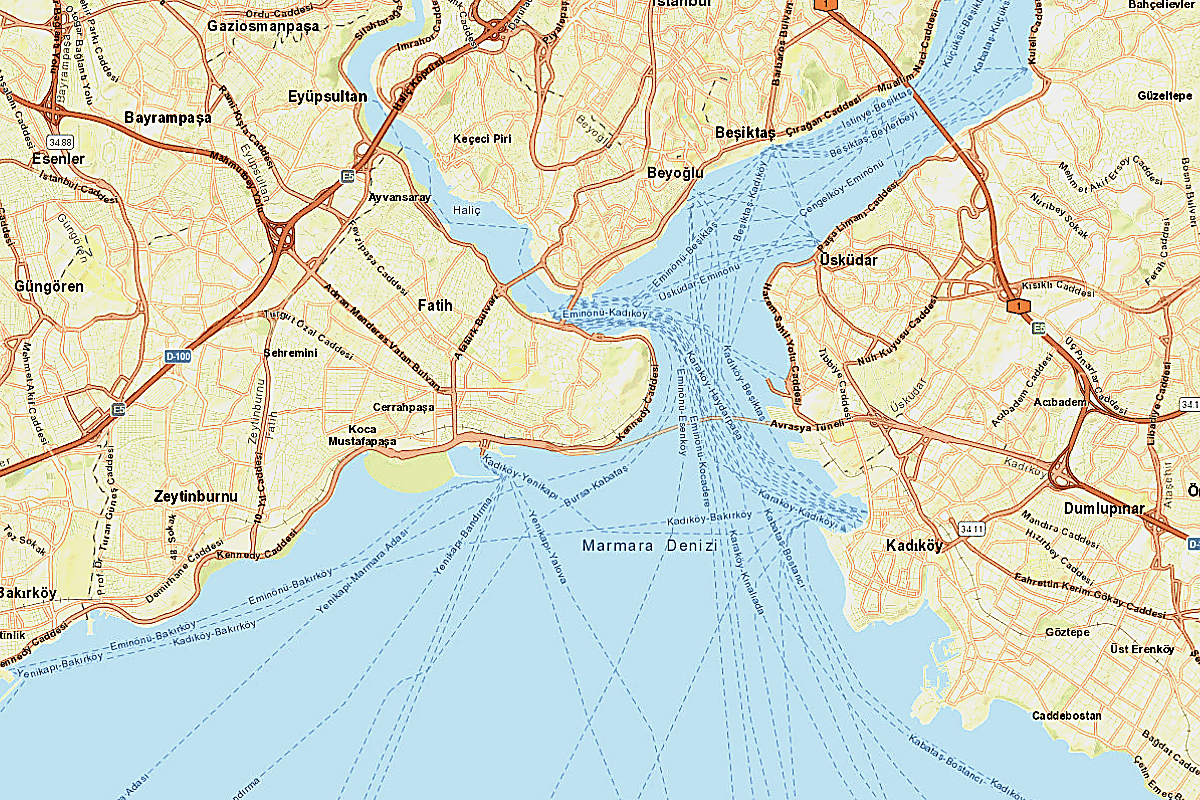
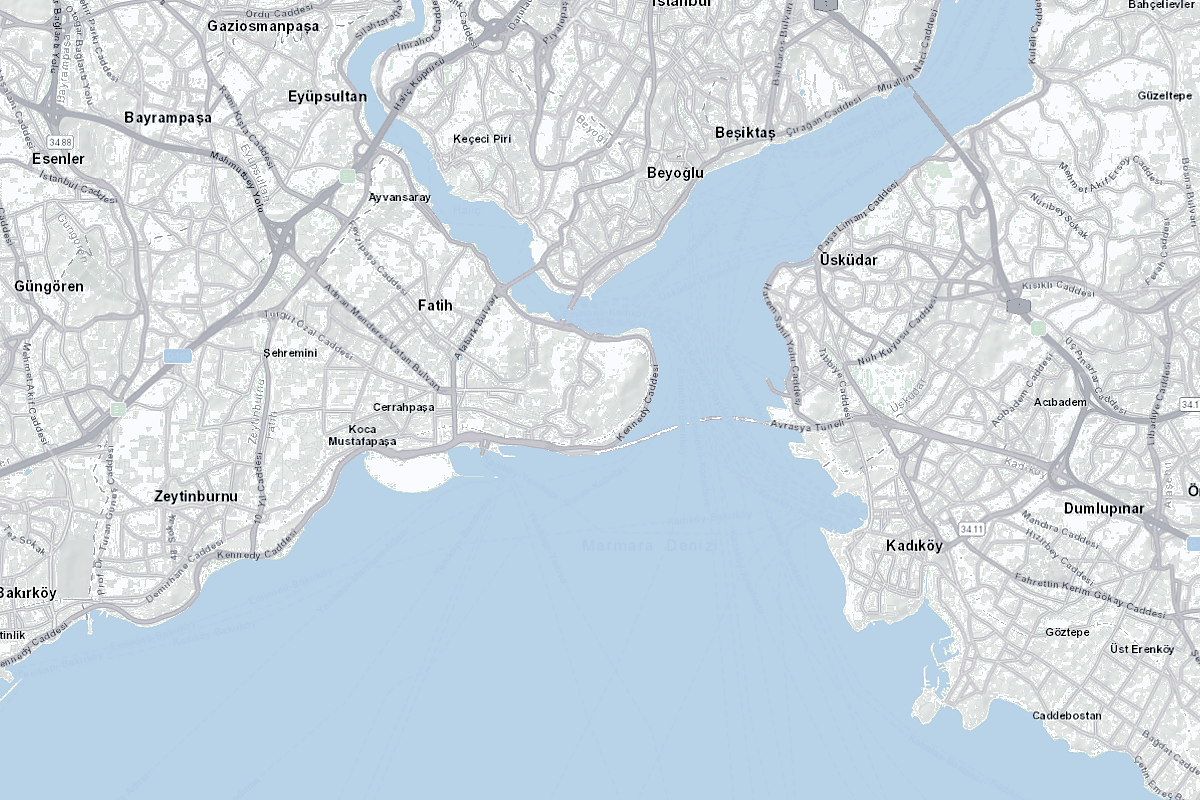
fix(guias): cooler flat basemaps for 30s city maps
Replace terracotta street-atlas PNGs with cool modern-light flat
streets (same geo frames/pins), and dial CSS saturate so roads stay
digital gray instead of warm caricature.

diff --git a/src/app/globals.css b/src/app/globals.css
@@ -256,7 +256,8 @@ html {
  * Modern light (Opção 2) — production default for all city-guide 30s maps.
  * Optical zoom enlarges baked street / neighborhood labels. No Place IDs.
  * Pins keep 2GO navy/orange brand chrome (not map CSS).
- * Contrast is intentional: Filipe rejected washed Light Gray / pale street tiles.
+ * Basemap PNGs are cool flat digital streets (not terracotta street-atlas).
+ * CSS keeps mild cool contrast — avoid saturate boost that rewarms roads.
  */
 .guide-city-map {
   --guide-map-zoom: 1.48;
@@ -264,8 +265,8 @@ html {
 }
 
 .guide-city-map__img {
-  /* Stronger contrast so streets/labels read clearly; no desaturate/bleach. */
-  filter: contrast(1.28) saturate(1.12) brightness(0.97);
+  /* Subtle cool contrast; labels/streets already baked into the asset. */
+  filter: contrast(1.12) saturate(0.92) brightness(1.01);
   transform: scale(var(--guide-map-zoom));
   transform-origin: center;
 }
@@ -320,7 +321,7 @@ html {
   background: linear-gradient(160deg, #dbe4ee 0%, #eef2f6 100%);
 }
 .guide-city-map[data-map-theme='modern-light'] .guide-city-map__img {
-  filter: contrast(1.28) saturate(1.12) brightness(0.97);
+  filter: contrast(1.12) saturate(0.92) brightness(1.01);
   transform: scale(var(--guide-map-zoom));
 }
 .guide-city-map[data-map-theme='modern-light'] .guide-city-map__wash {

diff --git a/src/app/mapa-opcoes/page.js b/src/app/mapa-opcoes/page.js
@@ -58,7 +58,7 @@ export const MAP_STYLE_OPTIONS = [
     id: 'modern-light',
     name: 'Modern light (produção)',
     short: 'modern-light',
-    description: 'Street basemap com contraste reforçado + wash desligado — ruas/labels legíveis.',
+    description: 'Flat modern-light digital streets (cool gray) — sem ruas terracotta; labels legíveis.',
     mapSrc: '/images/maps/paris.png',
     pins: GEO_PINS,
     productionLike: true,
@@ -223,8 +223,8 @@ function PreviewInner() {
             Opções de estilo do mapa — Paris
           </h1>
           <p className="mt-2 max-w-2xl text-sm text-text-muted">
-            Produção = Modern light (PNG claro Positron-like) em todos os guias. Comparativo
-            histórico das outras opções; sem Place IDs.
+            Produção = Modern light flat (ruas cinza digitais, sem atlas terracotta) em todos os
+            guias. Comparativo histórico das outras opções; sem Place IDs.
           </p>
         </header>
 

diff --git a/src/lib/guideVisuals.js b/src/lib/guideVisuals.js
@@ -1,4 +1,4 @@
-/** Modern light street basemaps (production). Vintage PNGs remain at /images/maps/vintage/* for /mapa-opcoes. */
+/** Modern light flat street basemaps (production — cool digital, not terracotta atlas). Vintage PNGs remain at /images/maps/vintage/* for /mapa-opcoes. */
 const CITY_MAPS = {
   paris: '/images/maps/paris.png',
   'nova-york': '/images/maps/nova-york.png',

diff --git a/scripts/generate-modern-light-maps.py b/scripts/generate-modern-light-maps.py
@@ -1,0 +1,169 @@
+#!/usr/bin/env python3
+"""
+Generate production 30s guide basemaps: modern-light flat streets.
+
+Fetches ESRI World Street Map for the pin-compatible geographic frames, then
+recolors warm terracotta/beige atlas styling into a cool Mapbox-light palette
+while keeping street labels and road hierarchy readable.
+"""
+from __future__ import annotations
+
+import io
+import math
+import urllib.request
+from pathlib import Path
+
+import numpy as np
+from PIL import Image, ImageEnhance, ImageFilter, ImageOps
+
+ROOT = Path(__file__).resolve().parents[1]
+OUT_DIR = ROOT / "public" / "images" / "maps"
+PREVIEW_DIR = OUT_DIR / "preview"
+
+# Same half-spans as the Street Map swap (keeps Paris pin geometry).
+HALF_LON = 0.1025
+HALF_LAT = 0.0445
+SIZE = (1200, 800)
+UA = "2go-travel-web-app-map-curation/1.0 (static guide basemaps)"
+
+CITIES = {
+    "paris": (48.8675, 2.3345),
+    "nova-york": (40.758, -73.9855),
+    "toquio": (35.6812, 139.7671),
+    "londres": (51.5074, -0.1278),
+    "roma": (41.9028, 12.4964),
+    "istambul": (41.0082, 28.9784),
+    "dubai": (25.1972, 55.2744),
+}
+
+
+def mercator_x(lon: float) -> float:
+    return lon * 20037508.342789244 / 180.0
+
+
+def mercator_y(lat: float) -> float:
+    rad = math.radians(lat)
+    return math.log(math.tan(math.pi / 4 + rad / 2)) * 20037508.342789244 / math.pi
+
+
+def fetch_street(lat: float, lon: float) -> Image.Image:
+    min_lon, max_lon = lon - HALF_LON, lon + HALF_LON
+    min_lat, max_lat = lat - HALF_LAT, lat + HALF_LAT
+    xmin, xmax = mercator_x(min_lon), mercator_x(max_lon)
+    ymin, ymax = mercator_y(min_lat), mercator_y(max_lat)
+    w, h = SIZE
+    url = (
+        "https://server.arcgisonline.com/ArcGIS/rest/services/World_Street_Map/MapServer/export"
+        f"?bbox={xmin},{ymin},{xmax},{ymax}&bboxSR=3857&imageSR=3857"
+        f"&size={w},{h}&format=png32&transparent=false&f=image"
+    )
+    req = urllib.request.Request(url, headers={"User-Agent": UA})
+    with urllib.request.urlopen(req, timeout=90) as resp:
+        data = resp.read()
+    return Image.open(io.BytesIO(data)).convert("RGB")
+
+
+def to_modern_light(street: Image.Image) -> Image.Image:
+    """Terracotta street atlas → cool flat modern-light digital map."""
+    arr = np.asarray(street).astype(np.float32)
+    r, g, b = arr[:, :, 0], arr[:, :, 1], arr[:, :, 2]
+    lum = 0.299 * r + 0.587 * g + 0.114 * b
+
+    water = (b > r + 8) & (b > g) & (b > 150) & ((b - r) > 10)
+    park = (g > r) & (g > b) & (g > 160) & ((g - r) > 8)
+    warm = (r > 150) & (r >= g) & ((r - b) > 35) & (~water) & (~park)
+    beige = (
+        (r > 200)
+        & (g > 185)
+        & (b > 140)
+        & ((r - b) > 12)
+        & (~water)
+        & (~park)
+        & (~warm)
+    )
+
+    out = arr.copy()
+    # Cool slate-white land (Mapbox Light-ish), not warm paper beige.
+    out[beige] = np.array([241, 245, 249], dtype=np.float32)
+
+    out[park, 0] = np.clip(out[park, 0] * 0.4 + 214 * 0.6, 0, 255)
+    out[park, 1] = np.clip(out[park, 1] * 0.4 + 228 * 0.6, 0, 255)
+    out[park, 2] = np.clip(out[park, 2] * 0.4 + 220 * 0.6, 0, 255)
+
+    out[water, 0] = np.clip(out[water, 0] * 0.25 + 186 * 0.75, 0, 255)
+    out[water, 1] = np.clip(out[water, 1] * 0.25 + 210 * 0.75, 0, 255)
+    out[water, 2] = np.clip(out[water, 2] * 0.25 + 232 * 0.75, 0, 255)
+
+    strength = np.clip((r - b) / 140.0, 0, 1)
+    # Cool slate roads — hierarchy by original warmth/width proxy.
+    road_gray = 220 - strength * 55
+    for i, bias in enumerate((-2, 2, 8)):
+        ch = out[:, :, i]
+        ch[warm] = (1 - strength[warm] * 0.96) * ch[warm] + strength[warm] * 0.96 * (
+            road_gray[warm] + bias
+        )
+        out[:, :, i] = ch
+
+    # Neutralize any residual warm cast on non-water/non-text pixels.
+    residual_warm = ((out[:, :, 0] - out[:, :, 2]) > 8) & (~water)
+    for i, bias in enumerate((-6, -1, 5)):
+        ch = out[:, :, i]
+        ch[residual_warm] = np.clip(ch[residual_warm] + bias, 0, 255)
+        out[:, :, i] = ch
+
+    im = Image.fromarray(np.clip(out, 0, 255).astype(np.uint8))
+    im = ImageEnhance.Color(im).enhance(0.58)
+    gray = ImageOps.grayscale(im)
+    cool = ImageOps.colorize(gray, black="#0f172a", white="#f8fafc", mid="#94a3b8")
+    blend = Image.blend(im, cool.convert("RGB"), 0.52)
+
+    arr2 = np.asarray(blend).astype(np.float32)
+    orig = np.asarray(street).astype(np.float32)
+    olum = 0.299 * orig[:, :, 0] + 0.587 * orig[:, :, 1] + 0.114 * orig[:, :, 2]
+    text = (olum < 85) & ((orig[:, :, 0] - orig[:, :, 2]) < 40)
+    arr2[text] = np.array([15, 23, 42], dtype=np.float32) * 0.62 + arr2[text] * 0.38
+
+    # Re-assert soft park green after cool blend (Central Park, Bois, etc.).
+    park_soft = (orig[:, :, 1] > orig[:, :, 0] + 6) & (orig[:, :, 1] > orig[:, :, 2]) & (
+        orig[:, :, 1] > 140
+    )
+    arr2[park_soft, 0] = np.clip(arr2[park_soft, 0] * 0.45 + 198 * 0.55, 0, 255)
+    arr2[park_soft, 1] = np.clip(arr2[park_soft, 1] * 0.35 + 220 * 0.65, 0, 255)
+    arr2[park_soft, 2] = np.clip(arr2[park_soft, 2] * 0.45 + 204 * 0.55, 0, 255)
+
+    # Soft water blue after blend for subtle contrast vs land.
+    water_soft = (orig[:, :, 2] > orig[:, :, 0] + 10) & (orig[:, :, 2] > orig[:, :, 1]) & (
+        orig[:, :, 2] > 145
+    )
+    arr2[water_soft, 0] = np.clip(arr2[water_soft, 0] * 0.4 + 176 * 0.6, 0, 255)
+    arr2[water_soft, 1] = np.clip(arr2[water_soft, 1] * 0.4 + 204 * 0.6, 0, 255)
+    arr2[water_soft, 2] = np.clip(arr2[water_soft, 2] * 0.3 + 228 * 0.7, 0, 255)
+
+    final = Image.fromarray(np.clip(arr2, 0, 255).astype(np.uint8))
+    final = ImageEnhance.Contrast(final).enhance(1.18)
+    final = ImageEnhance.Brightness(final).enhance(1.02)
+    final = final.filter(ImageFilter.UnsharpMask(radius=1.1, percent=48, threshold=2))
+    return final
+
+
+def main() -> None:
+    OUT_DIR.mkdir(parents=True, exist_ok=True)
+    PREVIEW_DIR.mkdir(parents=True, exist_ok=True)
+
+    for slug, (lat, lon) in CITIES.items():
+        print(f"fetch {slug}…")
+        street = fetch_street(lat, lon)
+        modern = to_modern_light(street)
+        dest = OUT_DIR / f"{slug}.png"
+        modern.save(dest, optimize=True)
+        print(f"  wrote {dest.relative_to(ROOT)} ({dest.stat().st_size} bytes)")
+
+    # Keep a Paris before/after preview artifact for /mapa-opcoes if useful later
+    paris = to_modern_light(fetch_street(*CITIES["paris"]))
+    preview = PREVIEW_DIR / "paris-modern-flat.png"
+    paris.save(preview, optimize=True)
+    print(f"  preview {preview.relative_to(ROOT)}")
+
+
+if __name__ == "__main__":
+    main()
